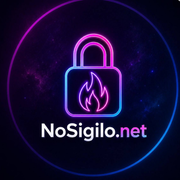
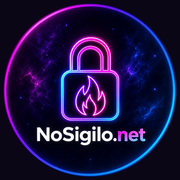
feat(marca): icone refeito a partir da imagem em alta resolucao

diff --git a/public/sw.js b/public/sw.js
@@ -1,4 +1,4 @@
-const CACHE_NAME = 'nosigilo-shell-v6';
+const CACHE_NAME = 'nosigilo-shell-v7';
 const OFFLINE_SHELL = ['/index.html', '/manifest.webmanifest', '/favicon.ico', '/apple-touch-icon.png', '/icon-192.png', '/icon-512.png'];
 
 self.addEventListener('install', (event) => {
